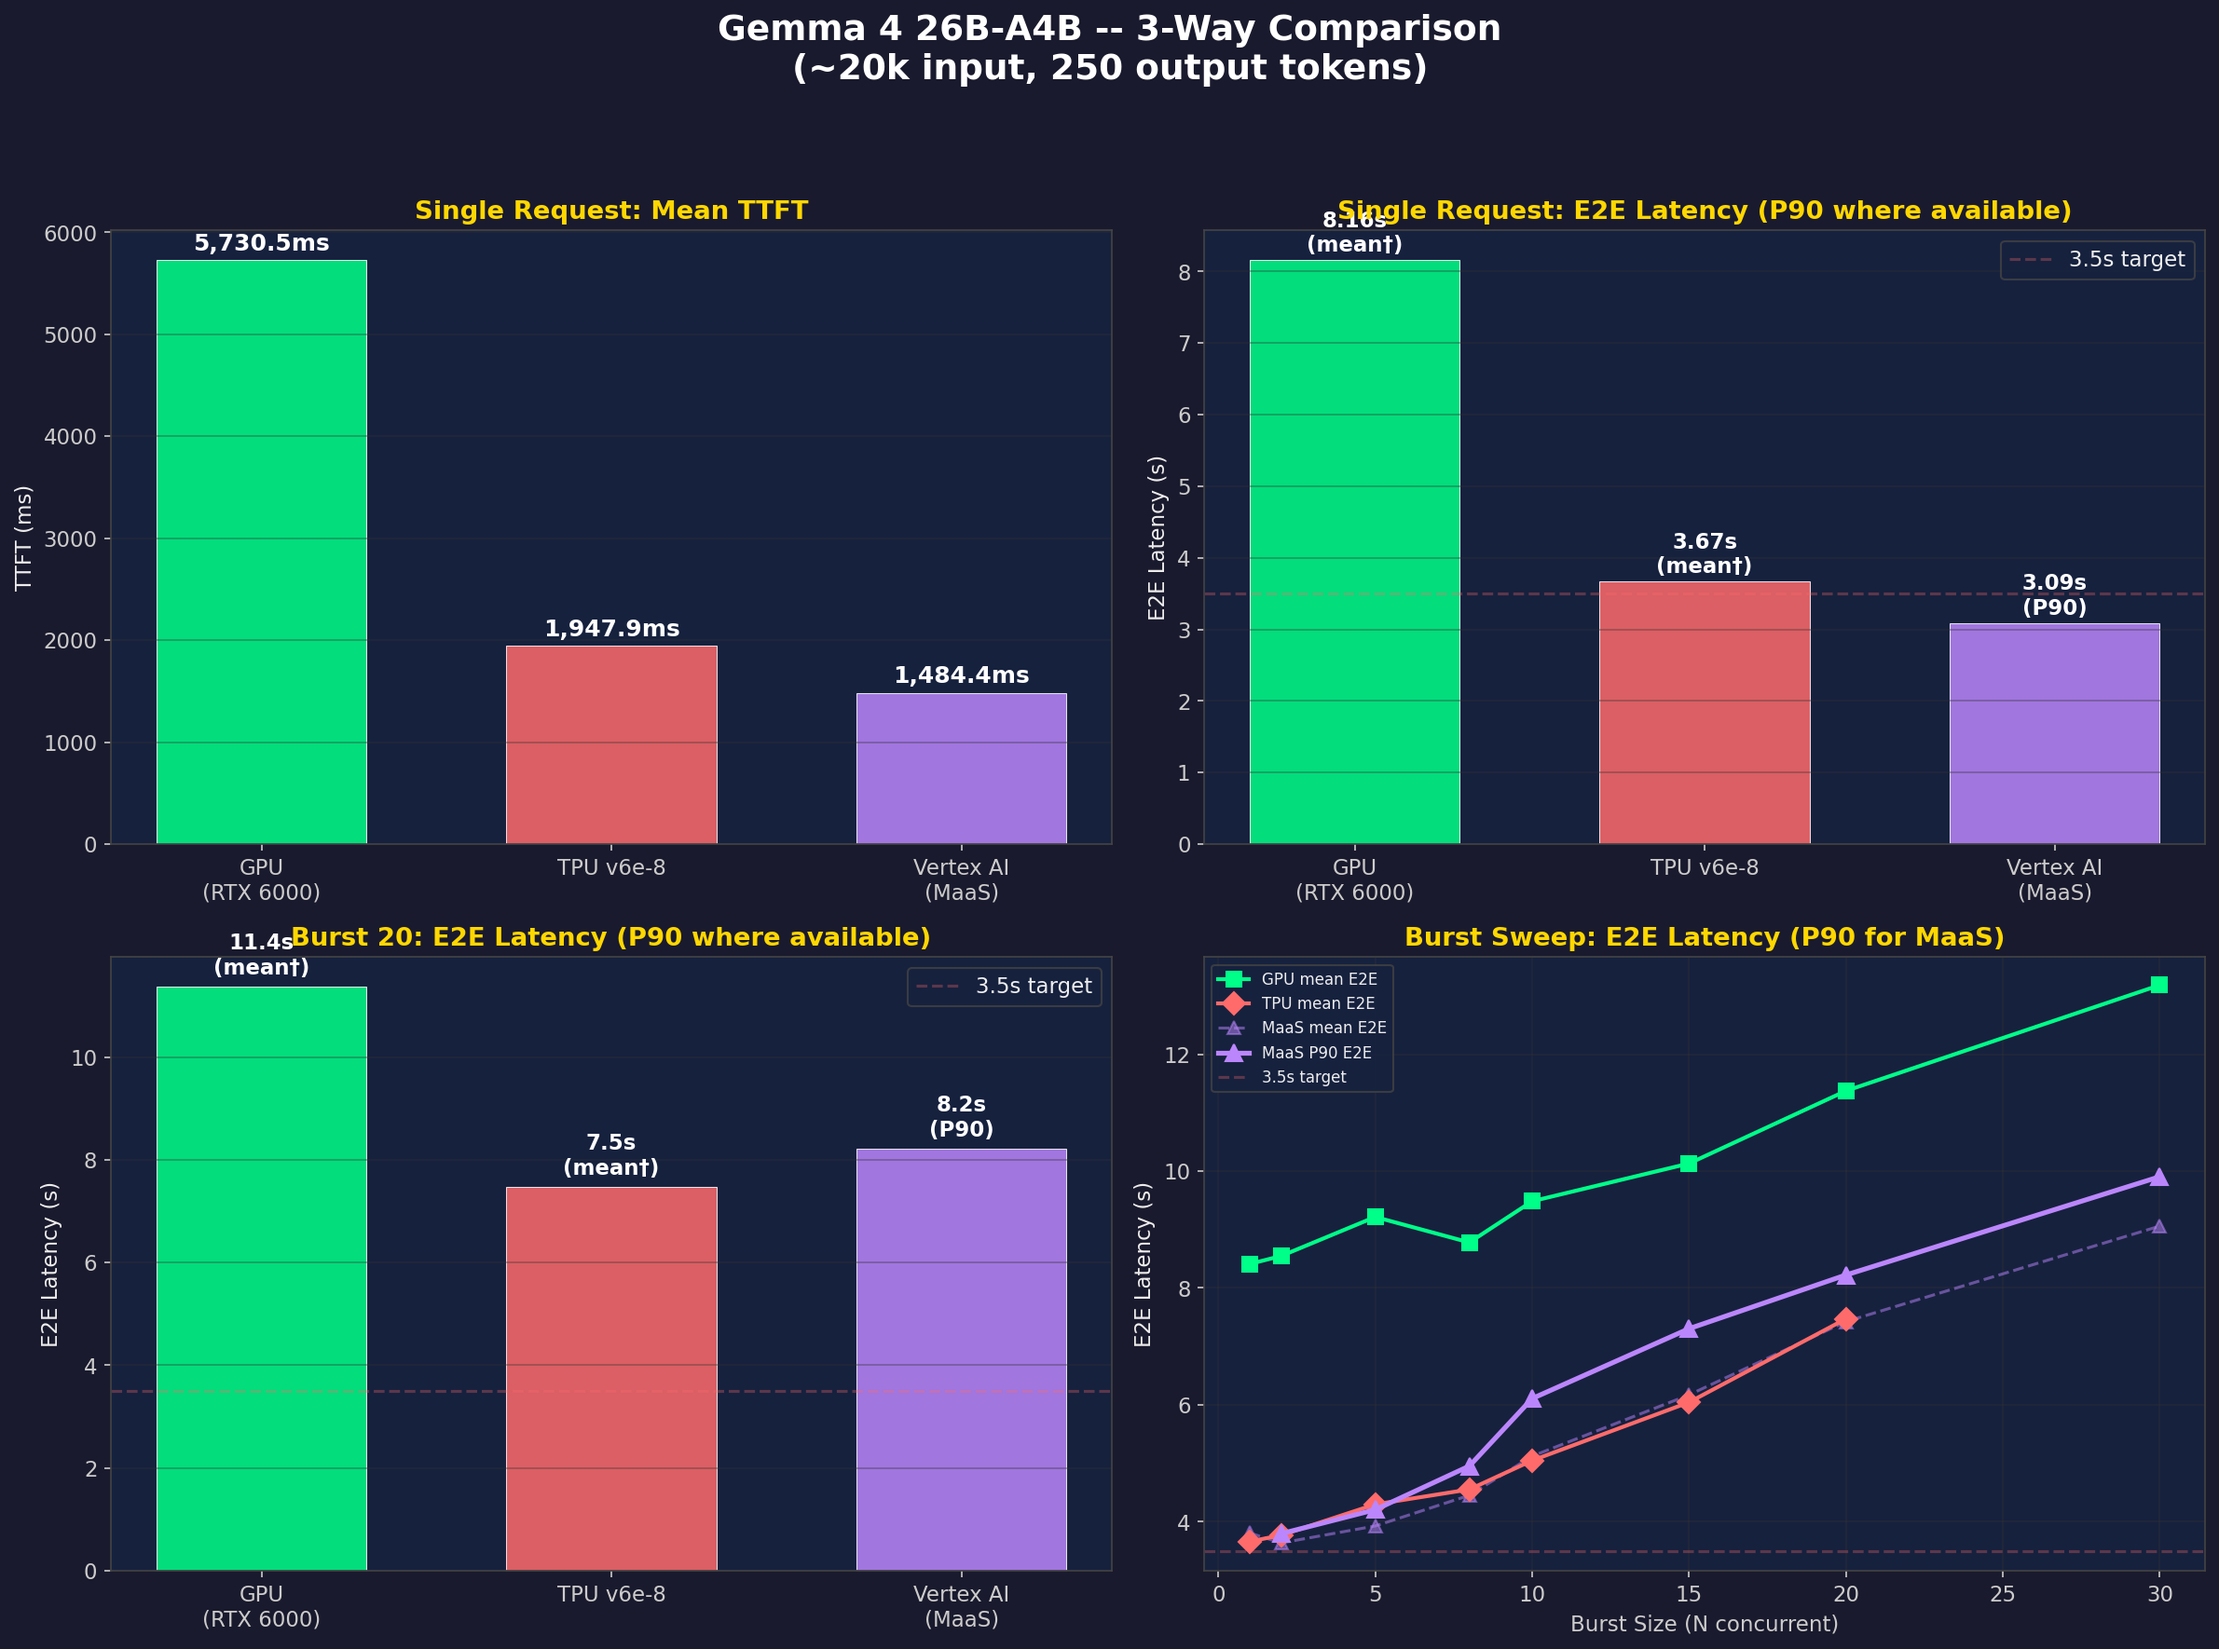
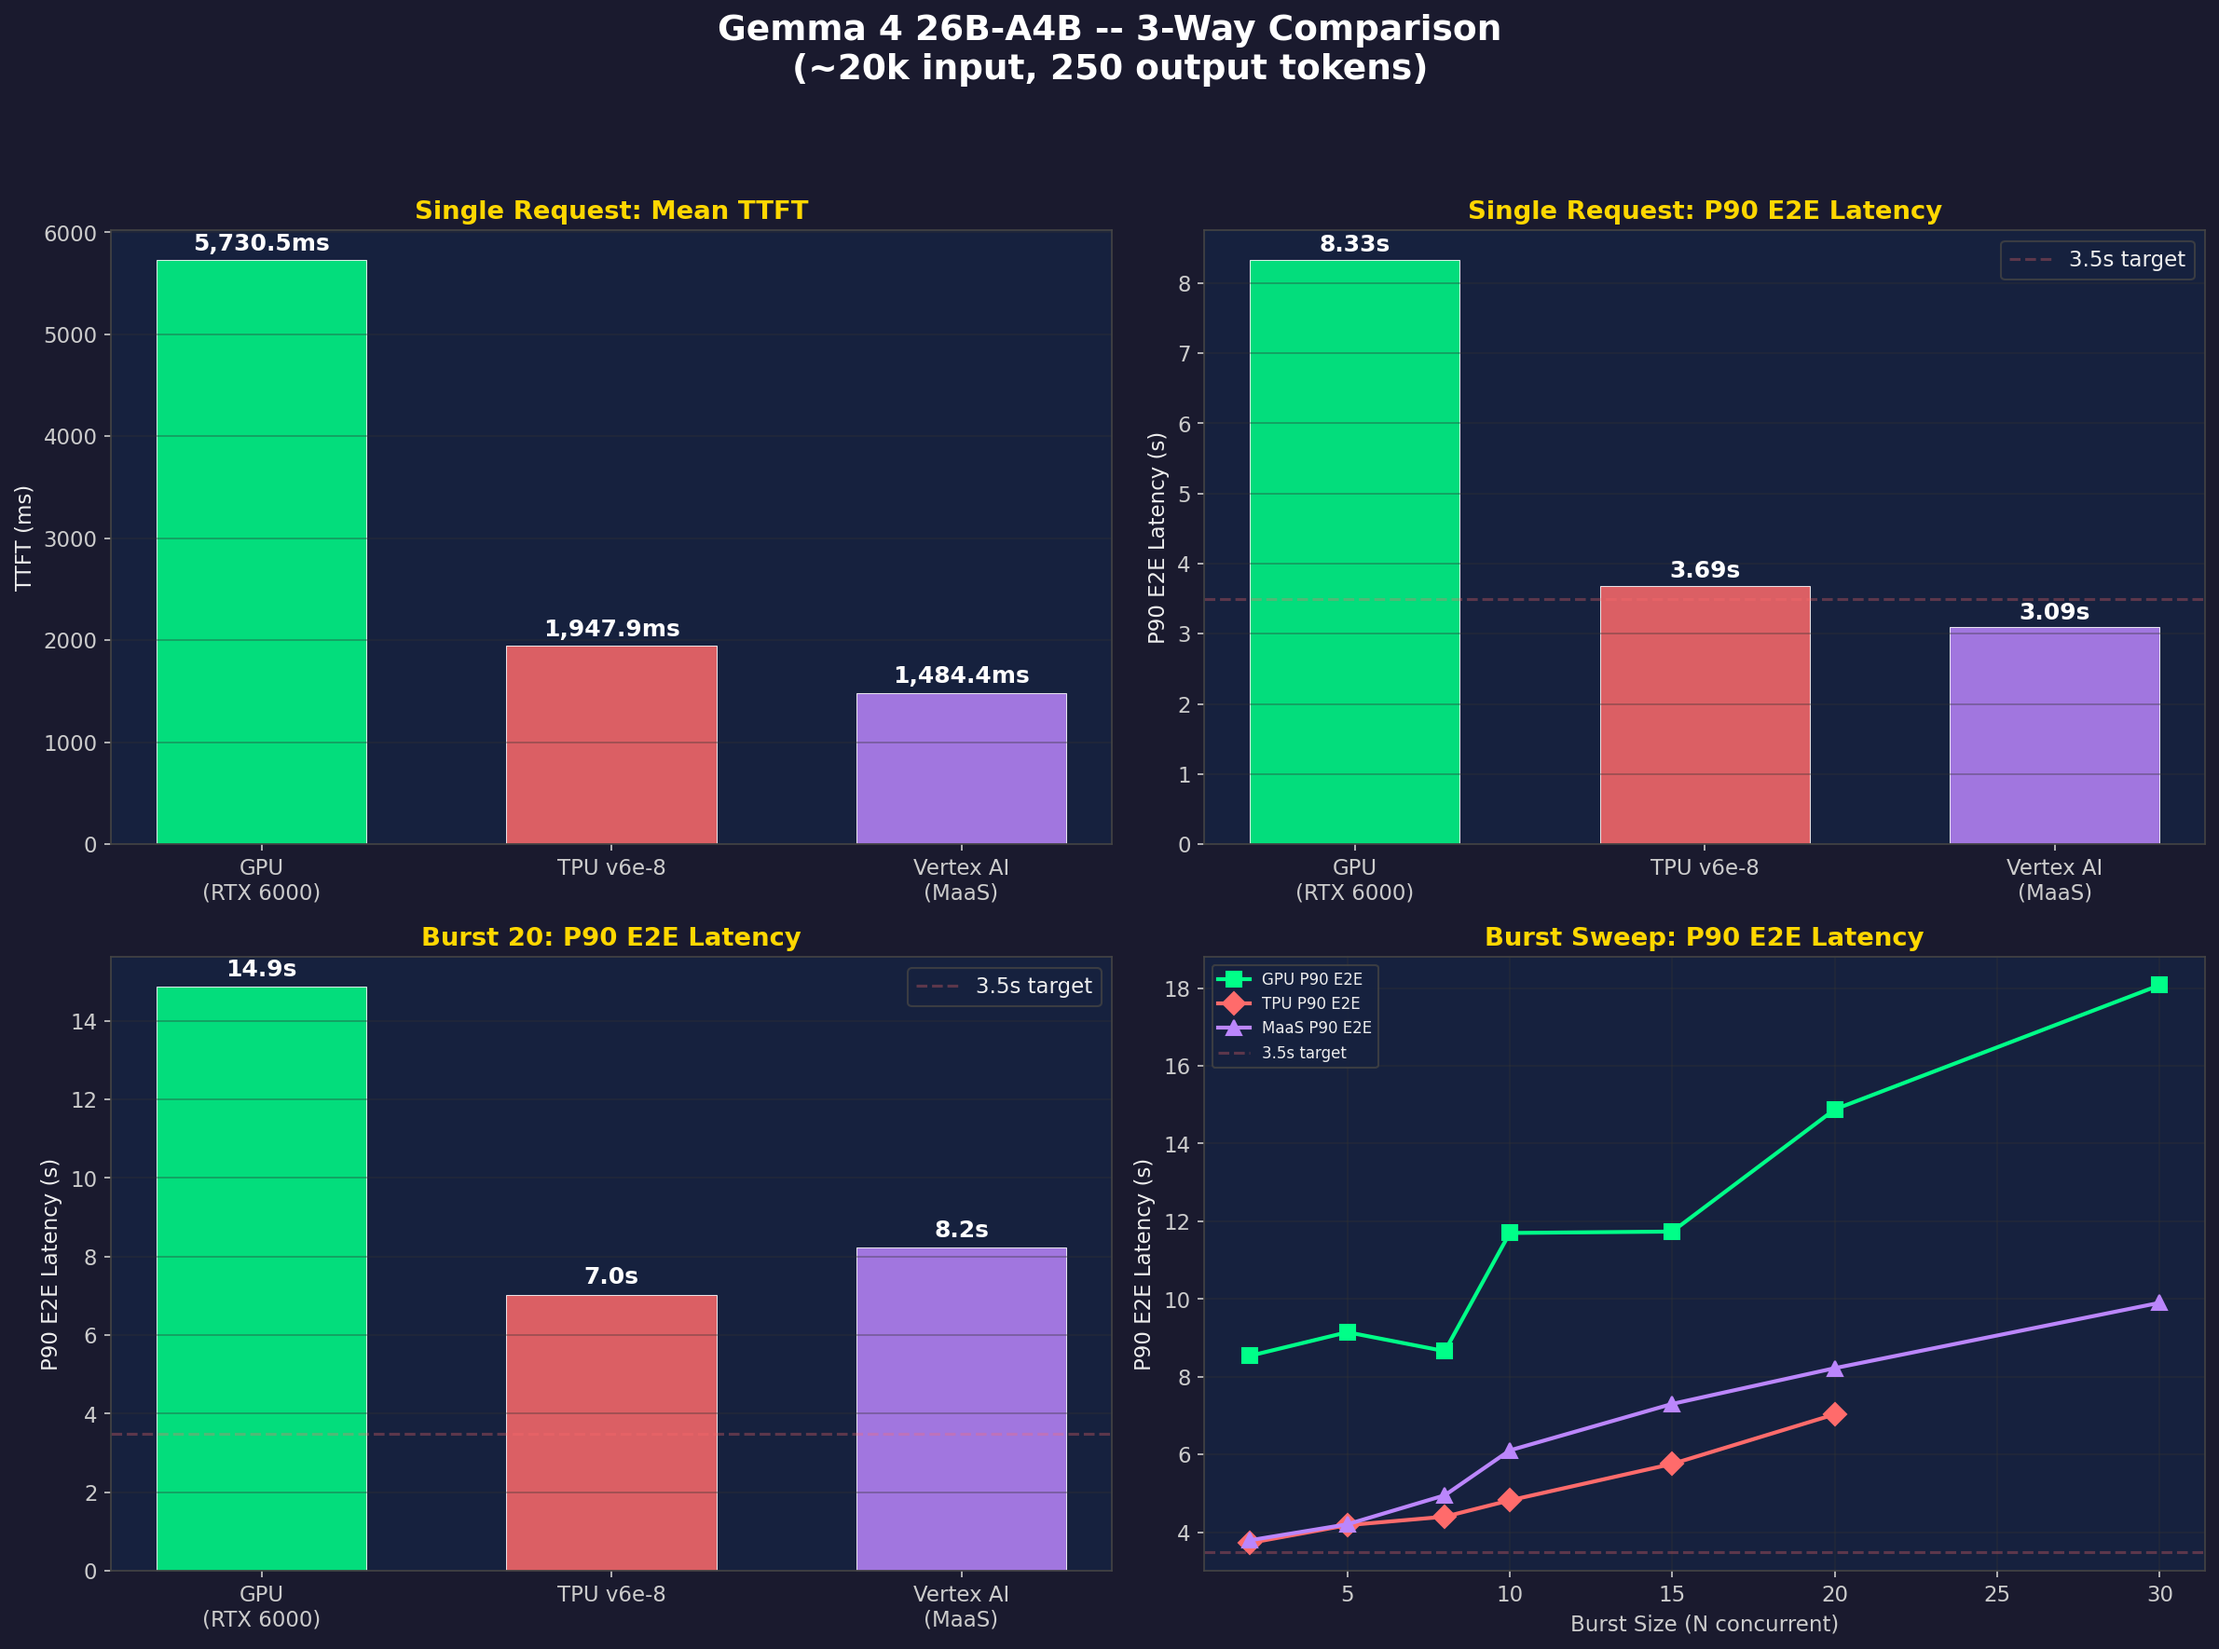
Add P90 E2E for ALL chips (GPU, TPU, MaaS) from measured data
P90 E2E extracted from gpu-p90-results.json and tpu-p90-results.json.
All comparison plots now show real measured P90 E2E for every chip.

Key P90 E2E values:
  Single: GPU=8.33s, TPU=3.69s, MaaS=3.09s
  0.3 QPS: GPU=5.90s, TPU=2.13s, MaaS=3.08s
  Burst 20: GPU=14.88s, TPU=7.03s, MaaS=8.22s

diff --git a/scripts/generate-plots.py b/scripts/generate-plots.py
@@ -52,8 +52,14 @@ rtx_baseline = {
     'tpot_ms': 9.81,
     'itl_median_ms': 9.82,
     'output_tok_s': 75.4,
-    'e2e_s': 8.164,  # 5730 + 249*9.81 = 8173ms ≈ 8.16s (measured: 8.164s)
+    'e2e_s': 8.164,
+    'e2e_p90_s': 8.333,
+    'ttft_p90_ms': 5898.7,
 }
+
+# P90 E2E from gpu-p90-results.json (10 runs per data point)
+rtx_p90_qps = [3.279, 3.508, 4.133, 4.970, 5.897, 6.609, 7.146, 8.213, 8.127]
+rtx_p90_burst = [0.0, 8.538, 9.146, 8.659, 11.699, 11.735, 14.877, 18.074]
 
 # Burst sweep: all requests at once (--request-rate inf), fresh prompts
 rtx_burst = [
@@ -105,9 +111,15 @@ tpu_baseline = {
     'ttft_ms': 1947.9,  # 128K context, cold prompts
     'tpot_ms': 6.93,
     'itl_median_ms': 6.94,
-    'output_tok_s': 145.0,  # 250 / (3.66 - 1.95) ≈ 145 tok/s
-    'total_tok_s': 5530.0,  # (20000 + 250) / 3.66 ≈ 5530
+    'output_tok_s': 145.0,
+    'total_tok_s': 5530.0,
+    'e2e_p90_s': 3.685,
+    'ttft_p90_ms': 1954.8,
 }
+
+# P90 E2E from tpu-p90-results.json (10 runs per data point)
+tpu_p90_qps = [2.150, 2.122, 2.140, 2.170, 2.134, 2.134, 2.150, 2.427, 2.878]
+tpu_p90_burst = [0.0, 3.725, 4.182, 4.400, 4.820, 5.758, 7.033]  # N=1..20
 
 # =============================================================================
 # MEASURED DATA — Vertex AI (Managed Model Garden endpoint, TPU-backed)
@@ -483,56 +495,45 @@ def plot_09():
     ax.set_title('Single Request: Mean TTFT', fontweight='bold', color='#ffd700')
     ax.grid(True, axis='y')
 
-    # Panel 2: Single E2E — P90 (customer SLA metric)
+    # Panel 2: Single E2E — P90 (customer SLA metric, all chips)
     ax = axes[0,1]
-    # GPU/TPU: estimate P90 ≈ mean (only mean available from vllm bench)
-    # MaaS: actual measured P90 from 10 runs
-    vals = [rtx_baseline['e2e_s'], calc_e2e(tpu_baseline['ttft_ms'], tpu_baseline['tpot_ms'])/1000, maas_baseline['e2e_p90_s']]
+    vals = [rtx_baseline['e2e_p90_s'], tpu_baseline['e2e_p90_s'], maas_baseline['e2e_p90_s']]
     bars = ax.bar(labels, vals, color=colors, alpha=0.85, edgecolor='white', linewidth=0.5, width=0.6)
-    annot_labels = [f'{vals[0]:.2f}s\n(mean†)', f'{vals[1]:.2f}s\n(mean†)', f'{vals[2]:.2f}s\n(P90)']
-    for b, v, lbl in zip(bars, vals, annot_labels):
-        ax.text(b.get_x()+b.get_width()/2, b.get_height()+0.05, lbl, ha='center', va='bottom', fontweight='bold', color='white', fontsize=11)
-    ax.set_ylabel('E2E Latency (s)')
-    ax.set_title('Single Request: E2E Latency (P90 where available)', fontweight='bold', color='#ffd700')
+    for b, v in zip(bars, vals):
+        ax.text(b.get_x()+b.get_width()/2, b.get_height()+0.05, f'{v:.2f}s', ha='center', va='bottom', fontweight='bold', color='white', fontsize=12)
+    ax.set_ylabel('P90 E2E Latency (s)')
+    ax.set_title('Single Request: P90 E2E Latency', fontweight='bold', color='#ffd700')
     ax.grid(True, axis='y')
     ax.axhline(y=3.5, color='#ff6b6b', linestyle='--', alpha=0.3, label='3.5s target')
     ax.legend(facecolor='#16213e', edgecolor='#444')
 
-    # Panel 3: Burst 20 E2E — P90 for MaaS, mean for GPU/TPU
+    # Panel 3: Burst 20 E2E — P90 for all chips
     ax = axes[1,0]
-    gpu_b20_e2e = calc_e2e(rtx_burst[6][3], rtx_burst[6][4]) / 1000
-    tpu_b20_e2e = calc_e2e(tpu_burst[6][1], tpu_burst[6][4]) / 1000
-    maas_b20_p90 = maas_burst[6][7]  # P90 E2E
-    vals = [gpu_b20_e2e, tpu_b20_e2e, maas_b20_p90]
+    vals = [rtx_p90_burst[6], tpu_p90_burst[6], maas_burst[6][7]]
     bars = ax.bar(labels, vals, color=colors, alpha=0.85, edgecolor='white', linewidth=0.5, width=0.6)
-    annot_labels = [f'{vals[0]:.1f}s\n(mean†)', f'{vals[1]:.1f}s\n(mean†)', f'{vals[2]:.1f}s\n(P90)']
-    for b, v, lbl in zip(bars, vals, annot_labels):
-        ax.text(b.get_x()+b.get_width()/2, b.get_height()+0.15, lbl, ha='center', va='bottom', fontweight='bold', color='white', fontsize=11)
-    ax.set_ylabel('E2E Latency (s)')
-    ax.set_title('Burst 20: E2E Latency (P90 where available)', fontweight='bold', color='#ffd700')
+    for b, v in zip(bars, vals):
+        ax.text(b.get_x()+b.get_width()/2, b.get_height()+0.15, f'{v:.1f}s', ha='center', va='bottom', fontweight='bold', color='white', fontsize=12)
+    ax.set_ylabel('P90 E2E Latency (s)')
+    ax.set_title('Burst 20: P90 E2E Latency', fontweight='bold', color='#ffd700')
     ax.axhline(y=3.5, color='#ff6b6b', linestyle='--', alpha=0.3, label='3.5s target')
     ax.legend(facecolor='#16213e', edgecolor='#444')
     ax.grid(True, axis='y')
 
-    # Panel 4: Burst E2E sweep — mean for GPU/TPU, P90 for MaaS
+    # Panel 4: Burst E2E sweep — P90 for all chips
     ax = axes[1,1]
     rtx_burst_n = [d[0] for d in rtx_burst]
-    rtx_burst_e2e = [calc_e2e(d[3], d[4])/1000 for d in rtx_burst]
-    ax.plot(rtx_burst_n, rtx_burst_e2e, 's-', color='#00ff88', linewidth=2, markersize=8, label='GPU mean E2E')
+    rtx_bp90_valid = [(n, p) for n, p in zip(rtx_burst_n, rtx_p90_burst) if p > 0]
+    ax.plot([x[0] for x in rtx_bp90_valid], [x[1] for x in rtx_bp90_valid], 's-', color='#00ff88', linewidth=2, markersize=8, label='GPU P90 E2E')
     tpu_bn = [d[0] for d in tpu_burst]
-    tpu_be2e = [calc_e2e(d[1], d[4])/1000 for d in tpu_burst]
-    ax.plot(tpu_bn, tpu_be2e, 'D-', color='#ff6b6b', linewidth=2, markersize=8, label='TPU mean E2E', zorder=4)
-    # MaaS: show both mean and P90
-    maas_burst_n = [d[0] for d in maas_burst]
-    maas_burst_mean = [d[4] for d in maas_burst]
-    maas_burst_p90 = [d[7] for d in maas_burst if d[7] > 0]
+    tpu_bp90_valid = [(n, p) for n, p in zip(tpu_bn, tpu_p90_burst) if p > 0]
+    ax.plot([x[0] for x in tpu_bp90_valid], [x[1] for x in tpu_bp90_valid], 'D-', color='#ff6b6b', linewidth=2, markersize=8, label='TPU P90 E2E', zorder=4)
     maas_burst_n_p90 = [d[0] for d in maas_burst if d[7] > 0]
-    ax.plot(maas_burst_n, maas_burst_mean, '^--', color='#bb86fc', linewidth=1.5, markersize=7, alpha=0.5, label='MaaS mean E2E')
-    ax.plot(maas_burst_n_p90, maas_burst_p90, '^-', color='#bb86fc', linewidth=2.5, markersize=9, label='MaaS P90 E2E', zorder=5)
+    maas_burst_p90 = [d[7] for d in maas_burst if d[7] > 0]
+    ax.plot(maas_burst_n_p90, maas_burst_p90, '^-', color='#bb86fc', linewidth=2, markersize=8, label='MaaS P90 E2E', zorder=5)
     ax.axhline(y=3.5, color='#ff6b6b', linestyle='--', alpha=0.3, label='3.5s target')
     ax.set_xlabel('Burst Size (N concurrent)', color='#ccc')
-    ax.set_ylabel('E2E Latency (s)')
-    ax.set_title('Burst Sweep: E2E Latency (P90 for MaaS)', fontweight='bold', color='#ffd700')
+    ax.set_ylabel('P90 E2E Latency (s)')
+    ax.set_title('Burst Sweep: P90 E2E Latency', fontweight='bold', color='#ffd700')
     ax.legend(facecolor='#16213e', edgecolor='#444', fontsize=8)
     ax.grid(True)
 
@@ -560,15 +561,15 @@ def plot_10():
         ['-- Single Request --', '', '', '', ''],
         ['Mean TTFT (ms)', f'{rtx_baseline["ttft_ms"]:,.0f}', f'{tpu_baseline["ttft_ms"]:,.0f}', f'{maas_baseline["ttft_mean_ms"]:,.0f}', 'MaaS'],
         ['Mean E2E (s)', f'{rtx_baseline["e2e_s"]:.2f}', f'{calc_e2e(tpu_baseline["ttft_ms"], tpu_baseline["tpot_ms"])/1000:.2f}', f'{maas_baseline["e2e_mean_s"]:.2f}', 'MaaS'],
-        ['P90 E2E (s)', 'N/A†', 'N/A†', f'{maas_baseline["e2e_p90_s"]:.2f}', 'MaaS'],
+        ['P90 E2E (s)', f'{rtx_baseline["e2e_p90_s"]:.2f}', f'{tpu_baseline["e2e_p90_s"]:.2f}', f'{maas_baseline["e2e_p90_s"]:.2f}', 'MaaS'],
         ['-- 0.3 QPS Steady --', '', '', '', ''],
         ['Mean TTFT (ms)', f'{rtx_qps[4][3]:,.0f}', f'{tpu_qps[4][1]:,.0f}', f'{maas_qps[4][1]:,.0f}', 'TPU'],
         ['Mean E2E (s)', f'{calc_e2e(rtx_qps[4][3], rtx_qps[4][4])/1000:.2f}', f'{calc_e2e(tpu_qps[4][1], tpu_qps[4][4])/1000:.2f}', f'{maas_qps[4][4]:.2f}', 'TPU'],
-        ['P90 E2E (s)', 'N/A†', 'N/A†', f'{maas_qps[4][7]:.2f}', 'MaaS'],
+        ['P90 E2E (s)', f'{rtx_p90_qps[4]:.2f}', f'{tpu_p90_qps[4]:.2f}', f'{maas_qps[4][7]:.2f}', 'TPU'],
         ['-- Burst 20 --', '', '', '', ''],
         ['Mean TTFT (ms)', f'{rtx_burst[6][3]:,.0f}', f'{tpu_burst[6][1]:,.0f}', f'{maas_burst[6][1]:,.0f}', 'TPU'],
         ['Mean E2E (s)', f'{calc_e2e(rtx_burst[6][3], rtx_burst[6][4])/1000:.2f}', f'{calc_e2e(tpu_burst[6][1], tpu_burst[6][4])/1000:.2f}', f'{maas_burst[6][4]:.2f}', 'TPU'],
-        ['P90 E2E (s)', 'N/A†', 'N/A†', f'{maas_burst[6][7]:.2f}', '—'],
+        ['P90 E2E (s)', f'{rtx_p90_burst[6]:.2f}', f'{tpu_p90_burst[6]:.2f}', f'{maas_burst[6][7]:.2f}', 'TPU'],
         ['-- Cost --', '', '', '', ''],
         ['On-demand ($/hr)', '$4.50', '$21.60', 'Pay-per-token', 'GPU'],
         ['Cost/M out tokens', '$16.58', '$71.07', '$12.60**', 'MaaS'],
